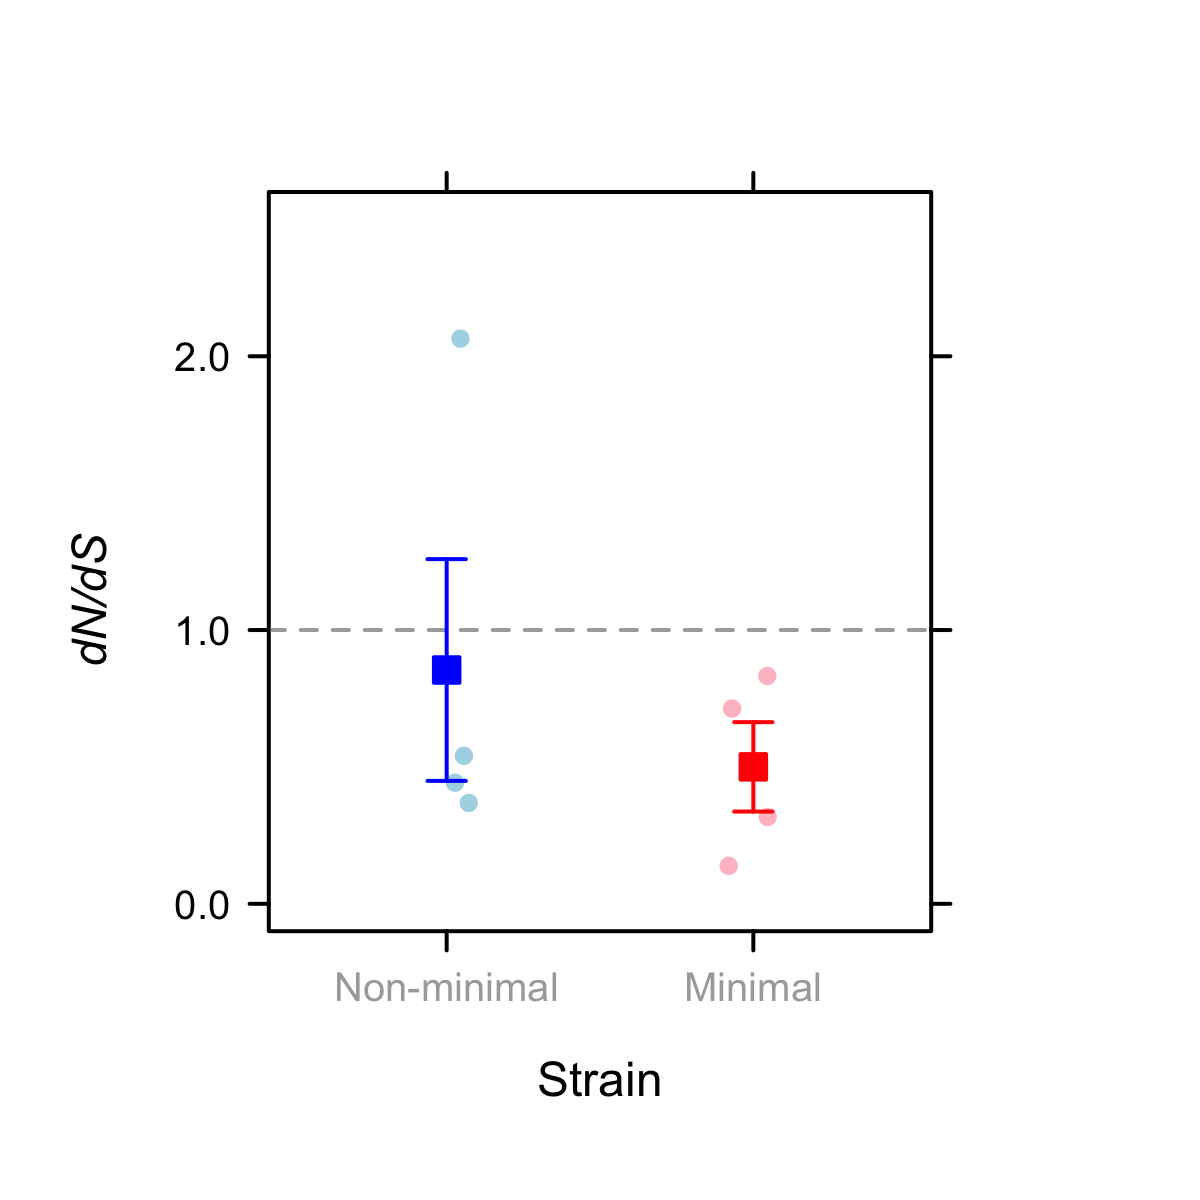
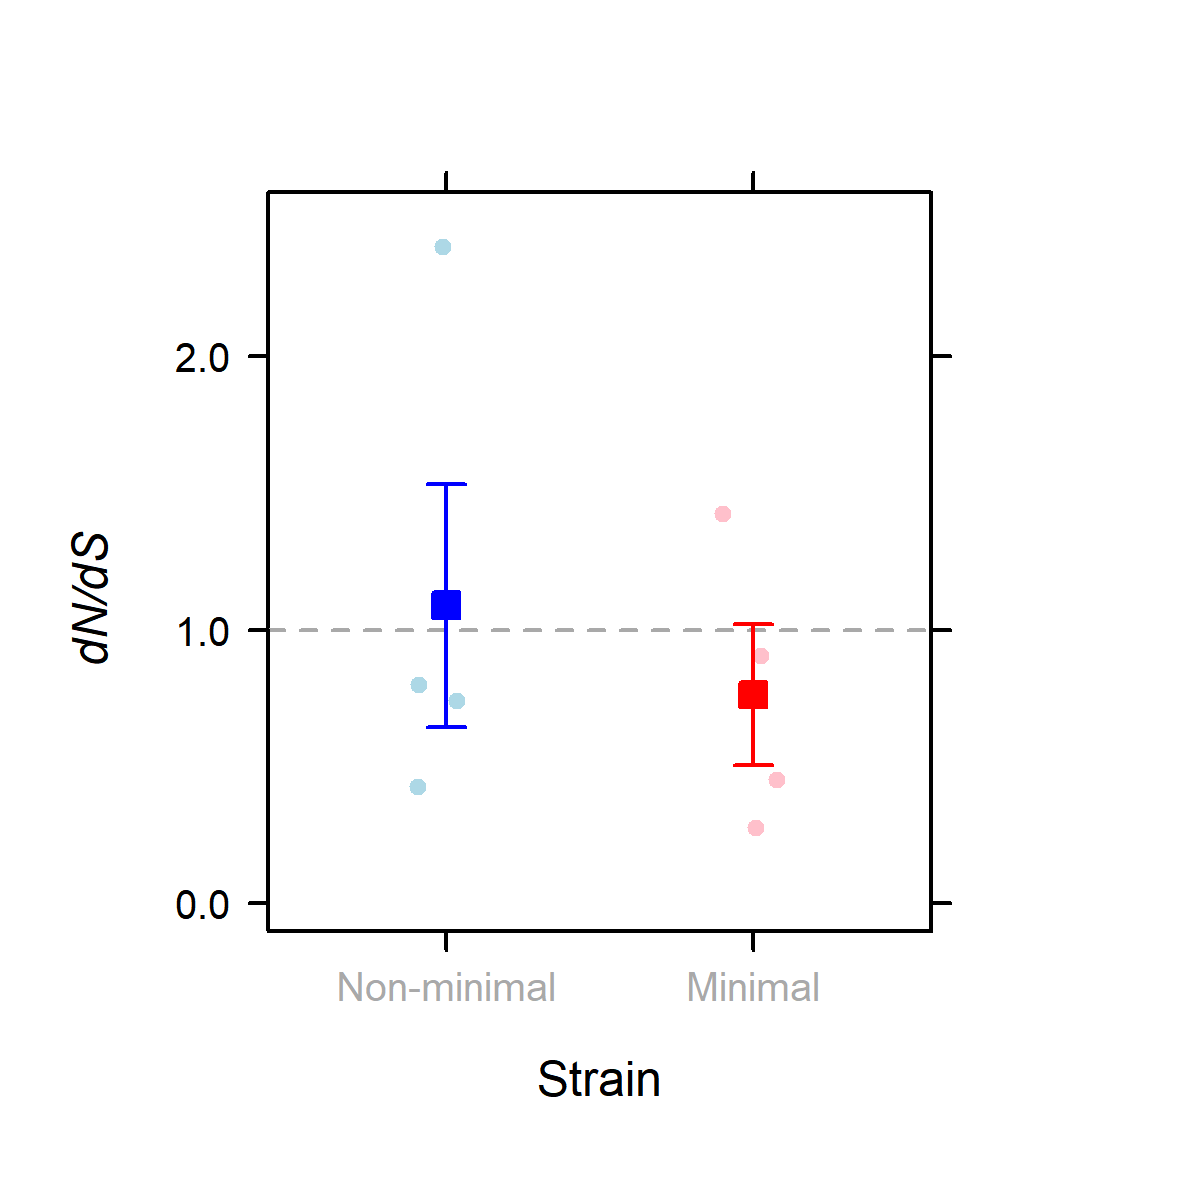
Update main dN/dS analysis after fixed typoe; still need to update R3's within-nonmin essent-vs-nonessent analysis

diff --git a/scripts/analysis/dNdS_spectrum-aware.py b/scripts/analysis/dNdS_spectrum-aware.py
@@ -91,15 +91,15 @@ SDICT_1=calc_number(syn1_S)
 pp.pprint(SDICT_3B);pp.pprint(SDICT_1)#check whether any of the lines have S = 0
 #m13 has S = 0. Therefore, need to add a pseudocount of S = 1 for all of the samples
 #%%
-Nmin=calc_targetsize(p=0.013435701,q=0.015355086,r=0.038387716,s=0.009596929,t=0.654510557,possATtoCG=303273,possATtoGC=204218,posstATtoTA=265192,possCGtoGC=113261,possCGtoTA=96506,possGCtoTA=98885)
-Smin=calc_targetsize(p=0.013435701,q=0.015355086,r=0.038387716,s=0.009596929,t=0.654510557,possATtoCG=52292,possATtoGC=157137,posstATtoTA=61057,possCGtoGC=2053,possCGtoTA=11721,possGCtoTA=3100)
-Nnonmin=calc_targetsize(p=0.011049724,q=0.072375691,r=0.037569061,s=0.10441989,t=0.419337017,possATtoCG=585378,possATtoGC=397994,posstATtoTA=513439,possCGtoGC=215178,possCGtoTA=180519,possGCtoTA=186790)
-Snonmin=calc_targetsize(p=0.011049724,q=0.072375691,r=0.037569061,s=0.10441989,t=0.419337017,possATtoCG=98053,possATtoGC=296696,posstATtoTA=113194,possCGtoGC=4631,possCGtoTA=25669,possGCtoTA=6581)
+Nmin=calc_targetsize(p=0.013435701,q=0.015355086,r=0.038387716,s=0.009596929,t=0.654510557,possATtoCG=303273,possATtoGC=204218,possATtoTA=265192,possCGtoGC=113261,possCGtoTA=96506,possGCtoTA=98885)
+Smin=calc_targetsize(p=0.013435701,q=0.015355086,r=0.038387716,s=0.009596929,t=0.654510557,possATtoCG=52292,possATtoGC=157137,possATtoTA=61057,possCGtoGC=2053,possCGtoTA=11721,possGCtoTA=3100)
+Nnonmin=calc_targetsize(p=0.011049724,q=0.072375691,r=0.037569061,s=0.10441989,t=0.419337017,possATtoCG=585378,possATtoGC=397994,possATtoTA=513439,possCGtoGC=215178,possCGtoTA=180519,possGCtoTA=186790)
+Snonmin=calc_targetsize(p=0.011049724,q=0.072375691,r=0.037569061,s=0.10441989,t=0.419337017,possATtoCG=98053,possATtoGC=296696,possATtoTA=113194,possCGtoGC=4631,possCGtoTA=25669,possGCtoTA=6581)
 
-essN=calc_targetsize(p=0.011049724,q=0.072375691,r=0.037569061,s=0.10441989,t=0.419337017,possATtoCG=303273,possATtoGC=204218,posstATtoTA=265192,possCGtoGC=113261,possCGtoTA=96506,possGCtoTA=98885)
-essS=calc_targetsize(p=0.011049724,q=0.072375691,r=0.037569061,s=0.10441989,t=0.419337017,possATtoCG=52292,possATtoGC=157137,posstATtoTA=61057,possCGtoGC=2053,possCGtoTA=11721,possGCtoTA=3100)
-neN=calc_targetsize(p=0.011049724,q=0.072375691,r=0.037569061,s=0.10441989,t=0.419337017,possATtoCG=585378-303273,possATtoGC=397994-204218,posstATtoTA=513439-265192,possCGtoGC=215178-113261,possCGtoTA=180519-96506,possGCtoTA=186790-98885)
-neS=calc_targetsize(p=0.011049724,q=0.072375691,r=0.037569061,s=0.10441989,t=0.419337017,possATtoCG=98053-52292,possATtoGC=296696-157137,posstATtoTA=113194-61057,possCGtoGC=4631-2053,possCGtoTA=25669-11721,possGCtoTA=6581-3100)
+essN=calc_targetsize(p=0.011049724,q=0.072375691,r=0.037569061,s=0.10441989,t=0.419337017,possATtoCG=303273,possATtoGC=204218,possATtoTA=265192,possCGtoGC=113261,possCGtoTA=96506,possGCtoTA=98885)
+essS=calc_targetsize(p=0.011049724,q=0.072375691,r=0.037569061,s=0.10441989,t=0.419337017,possATtoCG=52292,possATtoGC=157137,possATtoTA=61057,possCGtoGC=2053,possCGtoTA=11721,possGCtoTA=3100)
+neN=calc_targetsize(p=0.011049724,q=0.072375691,r=0.037569061,s=0.10441989,t=0.419337017,possATtoCG=585378-303273,possATtoGC=397994-204218,possATtoTA=513439-265192,possCGtoGC=215178-113261,possCGtoTA=180519-96506,possGCtoTA=186790-98885)
+neS=calc_targetsize(p=0.011049724,q=0.072375691,r=0.037569061,s=0.10441989,t=0.419337017,possATtoCG=98053-52292,possATtoGC=296696-157137,possATtoTA=113194-61057,possCGtoGC=4631-2053,possCGtoTA=25669-11721,possGCtoTA=6581-3100)
 
 mm9 = (Nmin,Smin,NDICT_3B["9"],(1+SDICT_3B["9"]))#adding a pseudocount of 1 to all samples because some of them have 0 fixed synonymous changes
 mm10 = (Nmin,Smin,NDICT_3B["10"],(1+SDICT_3B["10"]))
